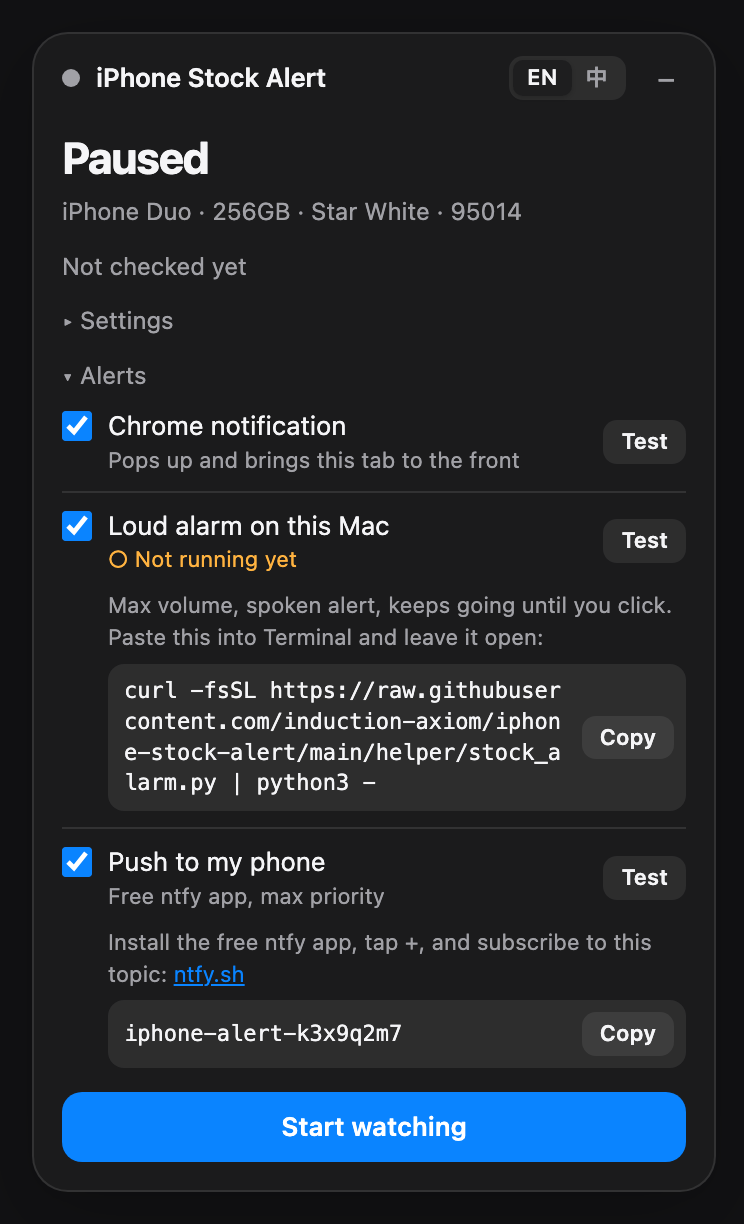
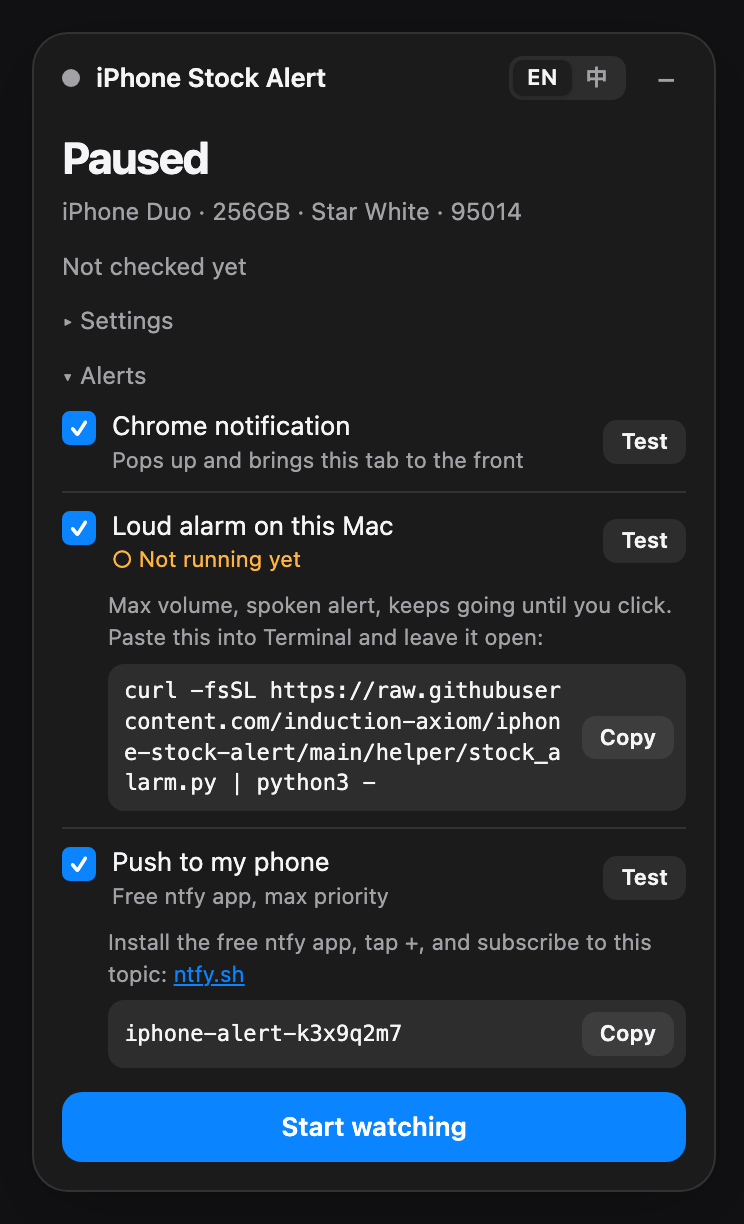
Fix alert toggles on Apple's page; theme-aware README screenshots
- Apple's page handles clicks itself, which undid the native checkboxes,
  so Mac and phone alerts could not be turned on. The toggles are now
  buttons that don't rely on the browser's default action, and events
  inside the panel no longer reach the page.
- Testing the Chrome notification also flashes the panel and beeps,
  reports whether Chrome may show notifications, and points to the
  macOS notification setting in case nothing pops up
- The Mac alarm row says it needs a Terminal command before it's on
- README screenshots follow the viewer's light/dark setting

Changed region(s): [[0.0927, 0.3415, 0.711, 0.4657], [0.0927, 0.683, 0.5255, 0.7451]]

diff --git a/extension/content.js b/extension/content.js
@@ -39,6 +39,8 @@ const STRINGS = {
     alerts: 'Alerts',
     chChrome: 'Chrome notification',
     chChromeHint: 'Pops up and brings this tab to the front',
+    chChromeHelp: "Didn't see it? In macOS System Settings → Notifications → Google Chrome, allow notifications (and turn off Focus).",
+    chMacSub: 'Needs one command in Terminal',
     chMac: 'Loud alarm on this Mac',
     chMacHint: 'Max volume, spoken alert, keeps going until you click. Paste this into Terminal and leave it open:',
     chPhone: 'Push to my phone',
@@ -84,6 +86,8 @@ const STRINGS = {
     alerts: '提醒方式',
     chChrome: 'Chrome 通知',
     chChromeHint: '弹出通知，并把这个页面切到最前面',
+    chChromeHelp: '没看到通知？在 macOS 系统设置 → 通知 → Google Chrome 里允许通知（并关掉专注模式）。',
+    chMacSub: '需要在终端运行一条命令',
     chMac: 'Mac 大声报警',
     chMacHint: '音量开到最大、语音循环播报，点了才停。把这条命令粘贴到终端运行，并保持窗口开着：',
     chPhone: '推送到手机',
@@ -189,6 +193,17 @@ function unlockAudio() {
   if (audioCtx.state === 'suspended') audioCtx.resume();
 }
 
+function beepOnce() {
+  if (!audioCtx || audioCtx.state !== 'running') return;
+  const o = audioCtx.createOscillator();
+  const g = audioCtx.createGain();
+  o.frequency.value = 880;
+  g.gain.value = 0.3;
+  o.connect(g).connect(audioCtx.destination);
+  o.start();
+  o.stop(audioCtx.currentTime + 0.2);
+}
+
 function startSiren() {
   if (siren) return;
   view.ringing = true;
@@ -290,9 +305,14 @@ root.innerHTML = `
   input:focus, select:focus { border-color: var(--blue); }
   .ch { display: flex; align-items: center; gap: 8px; padding: 7px 0; }
   .ch + .ch, .howto + .ch { border-top: 1px solid var(--line); }
-  label.check { display: flex; align-items: flex-start; gap: 8px; flex: 1; cursor: pointer; color: var(--fg); font-size: 13px; }
-  label.check input { accent-color: var(--blue); width: 15px; height: 15px; margin: 2px 0 0; flex: none; cursor: pointer; }
-  label.check small { display: block; color: var(--muted); font-size: 11px; }
+  button.check { all: unset; display: flex; align-items: flex-start; gap: 8px; flex: 1; cursor: pointer; color: var(--fg); font-size: 13px; }
+  button.check small { display: block; color: var(--muted); font-size: 11px; }
+  .tick { width: 14px; height: 14px; margin-top: 2px; flex: none; border-radius: 4px; border: 1.5px solid var(--muted);
+          display: grid; place-items: center; color: #fff; font-size: 11px; font-weight: 700; line-height: 1; }
+  .check[aria-checked="true"] .tick { background: var(--blue); border-color: var(--blue); }
+  .check[aria-checked="true"] .tick::after { content: '✓'; }
+  .check:focus-visible .tick { outline: 2px solid var(--blue); outline-offset: 2px; }
+  .card.flash { animation: pulse 1s ease-in-out 3; border-color: var(--red); }
   button.chip { all: unset; padding: 3px 9px; border-radius: 7px; background: var(--chip); color: var(--fg); font-size: 11px; font-weight: 600; cursor: pointer; white-space: nowrap; }
   button.chip:hover { filter: brightness(.95); }
   .howto { margin: 0 0 8px 23px; color: var(--muted); font-size: 11px; }
@@ -341,11 +361,12 @@ root.innerHTML = `
     <details data-v="alerts">
       <summary data-t="alerts"></summary>
       <div class="ch">
-        <label class="check"><input type="checkbox" data-ch="chrome"><span><span data-t="chChrome"></span><small data-t="chChromeHint"></small></span></label>
+        <button class="check" role="checkbox" data-ch="chrome"><span class="tick"></span><span><span data-t="chChrome"></span><small data-t="chChromeHint"></small></span></button>
         <button class="chip" data-test="chrome" data-t="test"></button>
       </div>
+      <div class="howto" data-v="chromeHelp" data-t="chChromeHelp" hidden></div>
       <div class="ch">
-        <label class="check"><input type="checkbox" data-ch="mac"><span><span data-t="chMac"></span><small data-v="macStatus"></small></span></label>
+        <button class="check" role="checkbox" data-ch="mac"><span class="tick"></span><span><span data-t="chMac"></span><small data-v="macStatus"></small></span></button>
         <button class="chip" data-test="mac" data-t="test"></button>
       </div>
       <div class="howto" data-v="macHow" hidden>
@@ -353,7 +374,7 @@ root.innerHTML = `
         <div class="code"><code data-v="macCmd"></code><button class="chip" data-copy="macCmd" data-t="copy"></button></div>
       </div>
       <div class="ch">
-        <label class="check"><input type="checkbox" data-ch="phone"><span><span data-t="chPhone"></span><small data-t="chPhoneSub"></small></span></label>
+        <button class="check" role="checkbox" data-ch="phone"><span class="tick"></span><span><span data-t="chPhone"></span><small data-t="chPhoneSub"></small></span></button>
         <button class="chip" data-test="phone" data-t="test"></button>
       </div>
       <div class="howto" data-v="phoneHow" hidden>
@@ -368,6 +389,10 @@ root.innerHTML = `
   </div>
 </div>`;
 document.documentElement.appendChild(host);
+// Apple's page has its own document-level handlers; events inside the panel stay inside it.
+for (const type of ['click', 'mousedown', 'mouseup', 'pointerdown', 'pointerup', 'keydown', 'keyup', 'keypress', 'input', 'change']) {
+  host.addEventListener(type, (e) => e.stopPropagation());
+}
 const $ = (s) => root.querySelector(s);
 const card = $('.card');
 const esc = (s) => String(s).replace(/[&<>"]/g, (c) => ({ '&': '&amp;', '<': '&lt;', '>': '&gt;', '"': '&quot;' })[c]);
@@ -405,9 +430,10 @@ async function render() {
     (view.checkedAt ? t('last', clock(view.checkedAt)) : t('never')) + (view.running && left != null ? t('next', left) : '');
 
   view.channels = c.channels;
-  for (const [k, on] of Object.entries(c.channels)) $(`[data-ch=${k}]`).checked = on;
-  $('[data-v=macStatus]').textContent = c.channels.mac ? (view.helperOk ? t('helperOn') : t('helperOff')) : '';
+  for (const [k, on] of Object.entries(c.channels)) $(`[data-ch=${k}]`).setAttribute('aria-checked', String(on));
+  $('[data-v=macStatus]').textContent = c.channels.mac ? (view.helperOk ? t('helperOn') : t('helperOff')) : t('chMacSub');
   $('[data-v=macStatus]').style.color = c.channels.mac ? (view.helperOk ? 'var(--green)' : 'var(--amber)') : '';
+  $('[data-v=chromeHelp]').hidden = !view.chromeTested;
   $('[data-v=macHow]').hidden = !(c.channels.mac && !view.helperOk);
   $('[data-v=macCmd]').textContent = HELPER_CMD;
   $('[data-v=phoneHow]').hidden = !c.channels.phone;
@@ -502,15 +528,6 @@ $('[data-drag]').addEventListener('pointerdown', (e) => {
 });
 
 root.addEventListener('change', async (e) => {
-  const ch = e.target.dataset && e.target.dataset.ch;
-  if (ch) {
-    const c = await getConfig();
-    const update = { channels: { ...c.channels, [ch]: e.target.checked } };
-    if (ch === 'phone' && e.target.checked && !c.ntfyTopic) update.ntfyTopic = randomTopic();
-    await chrome.storage.local.set(update);
-    if (ch === 'mac') refreshHelper();
-    return render();
-  }
   const k = e.target.dataset && e.target.dataset.k;
   if (!k) return;
   const v = e.target.value.trim();
@@ -530,11 +547,33 @@ root.addEventListener('click', async (e) => {
     await chrome.storage.local.set({ lang: langBtn.dataset.lang });
     return render();
   }
+  const toggle = e.target.closest('[data-ch]');
+  if (toggle) {
+    const ch = toggle.dataset.ch;
+    const c = await getConfig();
+    const on = !c.channels[ch];
+    const update = { channels: { ...c.channels, [ch]: on } };
+    if (ch === 'phone' && on && !c.ntfyTopic) update.ntfyTopic = randomTopic();
+    await chrome.storage.local.set(update);
+    if (ch === 'mac') refreshHelper();
+    return render();
+  }
   const testBtn = e.target.closest('[data-test]');
   if (testBtn) {
+    const channel = testBtn.dataset.test;
     testBtn.textContent = '…';
-    const ok = await chrome.runtime.sendMessage({ type: 'test', channel: testBtn.dataset.test }).catch(() => false);
+    if (channel === 'chrome') {
+      // The OS can hide the notification, so the panel also shows the test itself.
+      view.chromeTested = true;
+      card.classList.remove('flash');
+      void card.offsetWidth;
+      card.classList.add('flash');
+      setTimeout(() => card.classList.remove('flash'), 3200);
+      beepOnce();
+    }
+    const ok = await chrome.runtime.sendMessage({ type: 'test', channel }).catch(() => false);
     testBtn.textContent = ok ? '✓' : '✗';
+    if (channel === 'chrome') render();
     return;
   }
   const copyBtn = e.target.closest('[data-copy]');

diff --git a/extension/background.js b/extension/background.js
@@ -97,7 +97,7 @@ async function testChannel(channel) {
   const message = zh ? '这是一条测试提醒，到货时会是这样。' : 'This is a test. A real alert looks like this.';
   if (channel === 'chrome') {
     notifyChrome(title, message);
-    return true;
+    return new Promise((done) => chrome.notifications.getPermissionLevel((level) => done(level === 'granted')));
   }
   if (channel === 'mac') return helper('/alert', { title, model: 'iPhone', message, url: '' });
   if (channel === 'phone') return topic ? pushPhone(topic, title, message, '') : false;

diff --git a/README.md b/README.md
@@ -3,9 +3,15 @@
 Pick the iPhone you want and get alerted the moment it's available for in-store pickup near you.
 
 <p align="center">
-  <img src="docs/watching-light.png" width="320" alt="Panel while watching, light theme">
+  <picture>
+    <source media="(prefers-color-scheme: dark)" srcset="docs/watching-dark.png">
+    <img src="docs/watching-light.png" width="320" alt="Panel while watching">
+  </picture>
   &nbsp;
-  <img src="docs/in-stock-dark.png" width="320" alt="Panel when the iPhone is in stock, dark theme">
+  <picture>
+    <source media="(prefers-color-scheme: dark)" srcset="docs/in-stock-dark.png">
+    <img src="docs/in-stock-light.png" width="320" alt="Panel when the iPhone is in stock">
+  </picture>
 </p>
 
 A small panel sits on Apple's own buy page and checks nearby stores about every 10 seconds, from **your own Chrome tab**, the same way you'd check by hand. It works on any iPhone buy page (iPhone Duo, iPhone 18 Pro, …), in English or 中文.
@@ -26,14 +32,15 @@ Leave that tab open in its own window. Any store Apple lists near your postal co
 Choose any combination in the panel. Each one has a **Test** button, and any setup it needs is shown right there.
 
 <p align="center">
-  <img src="docs/alerts-light.png" width="320" alt="Alert options, light theme">
-  &nbsp;
-  <img src="docs/alerts-dark.png" width="320" alt="Alert options, dark theme">
+  <picture>
+    <source media="(prefers-color-scheme: dark)" srcset="docs/alerts-dark.png">
+    <img src="docs/alerts-light.png" width="320" alt="Alert options">
+  </picture>
 </p>
 
 | Alert | What happens | Setup |
 |---|---|---|
-| **Chrome notification** (on by default) | A notification that stays until clicked; the tab jumps to the front | None |
+| **Chrome notification** (on by default) | A notification that stays until clicked; the tab jumps to the front | None. If nothing pops up, allow Google Chrome in macOS System Settings → Notifications |
 | **Loud alarm on this Mac** | Volume to max, a spoken alert on repeat, a dialog that stays until you click it. It also warns you out loud if monitoring stops | Paste the one-line command from the panel into Terminal |
 | **Push to my phone** | A max-priority push via the free [ntfy](https://ntfy.sh) app | Subscribe to the topic shown in the panel |
 
